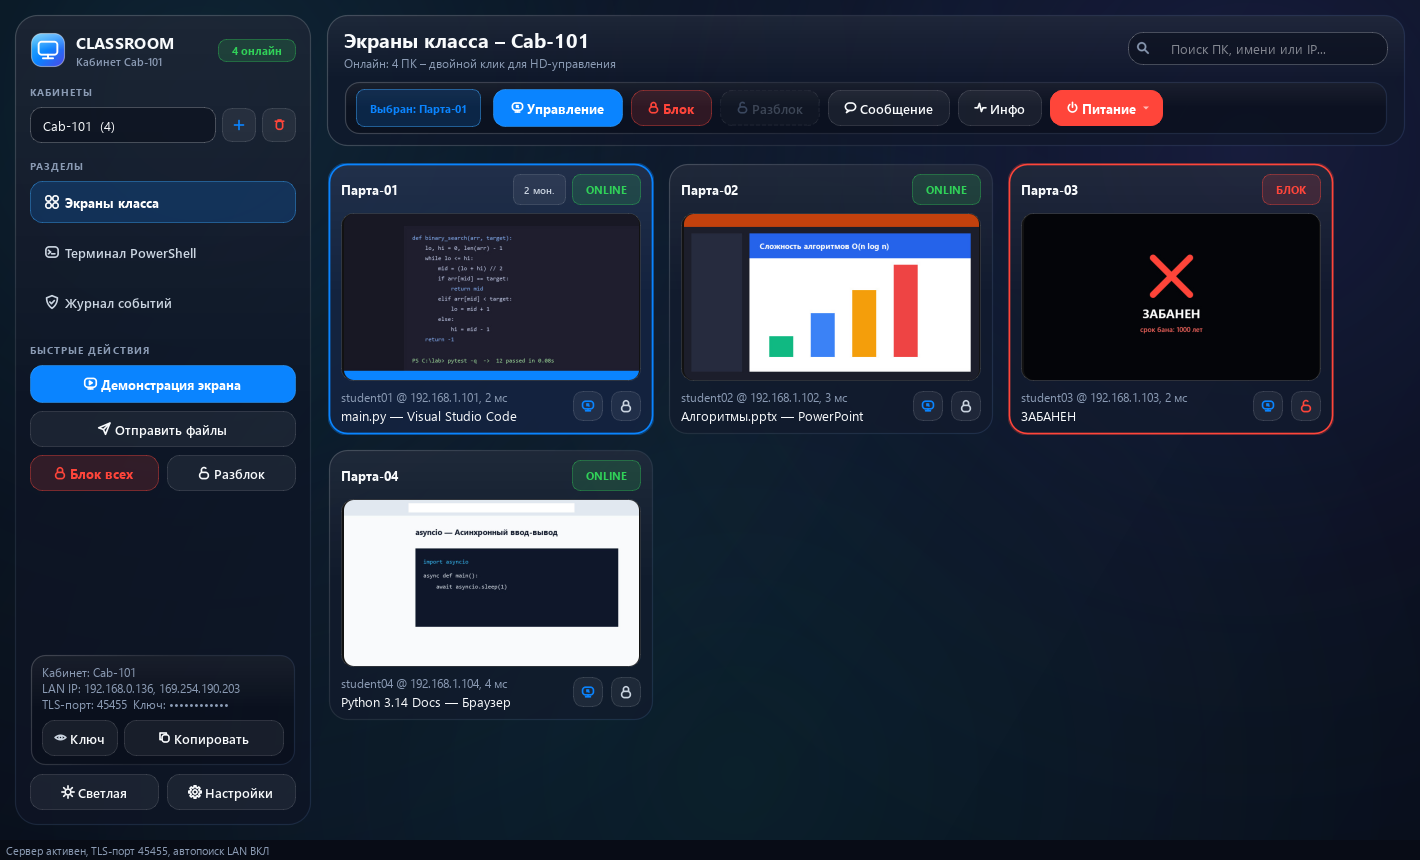
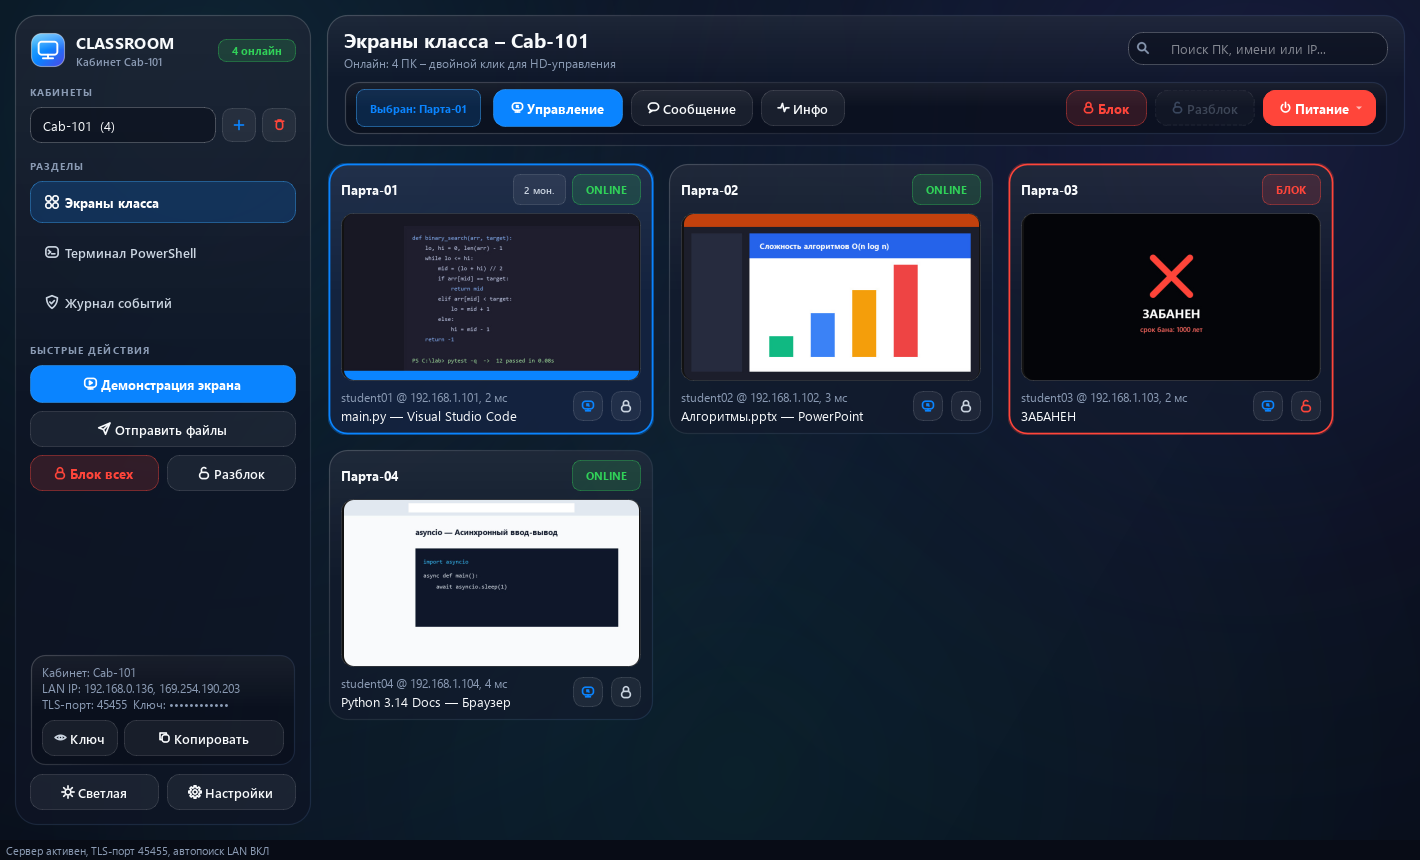
v2.2.2: Split contextual workstation toolbar (left: selected PC + remote/message/info; right: lock/unlock/power) and update screenshots

Changed region(s): [[0.6817, 0.0907, 0.9915, 0.1512], [0.4338, 0.1209, 0.6507, 0.1512]]

diff --git a/teacher_app/ui/main_window.py b/teacher_app/ui/main_window.py
@@ -639,13 +639,18 @@ class TeacherMainWindow(QMainWindow):
         self.btn_power.setProperty("accent", "danger")
         self.btn_power.setMenu(self._build_power_menu())
 
+        # Left group: selected PC + everyday safe actions
         ag.addWidget(self.btn_remote)
-        ag.addWidget(self.btn_lock)
-        ag.addWidget(self.btn_unlock)
         ag.addWidget(self.btn_msg)
         ag.addWidget(self.btn_ping)
-        ag.addWidget(self.btn_power)
+
+        # Visual separation between everyday actions and restriction/power controls
         ag.addStretch(1)
+
+        # Right group: screen lock & power controls
+        ag.addWidget(self.btn_lock)
+        ag.addWidget(self.btn_unlock)
+        ag.addWidget(self.btn_power)
 
         tb_outer.addWidget(self.grid_toolbar_widget)
         c_layout.addWidget(top_bar)
